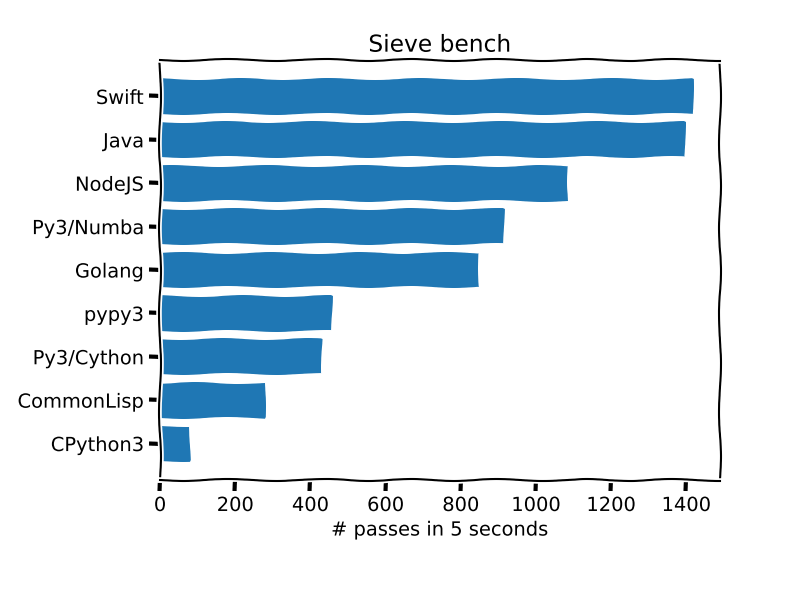
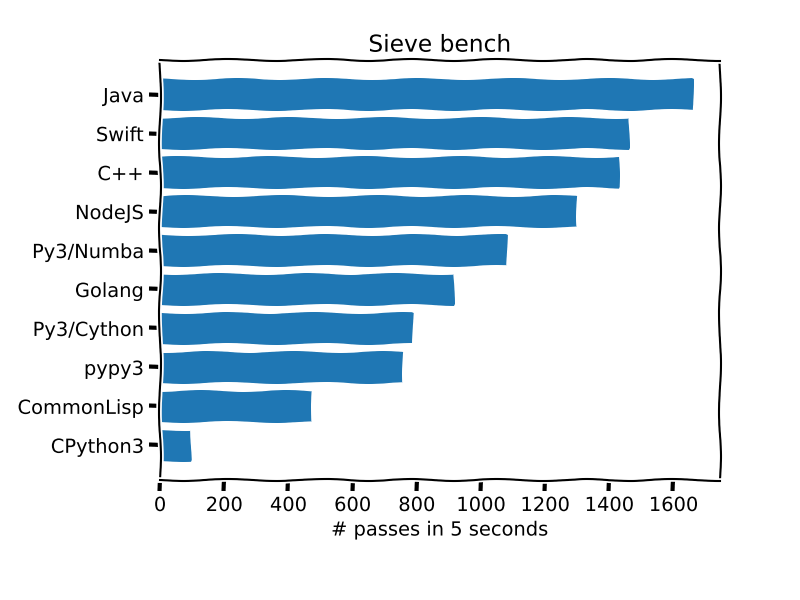
deploy: d520c39531809340ecaf57d8dfe63bc2e970efc0

diff --git a/results/index.html b/results/index.html
@@ -279,75 +279,90 @@ Description:    Ubuntu 20.04.3 LTS
 Release:    20.04
 Codename:   focal
 
-Linux fv-az269-986 5.11.0-1028-azure #31~20.04.2-Ubuntu SMP Tue Jan 18 08:46:15 UTC 2022 x86_64 x86_64 x86_64 GNU/Linux
+Linux fv-az196-653 5.11.0-1028-azure #31~20.04.2-Ubuntu SMP Tue Jan 18 08:46:15 UTC 2022 x86_64 x86_64 x86_64 GNU/Linux
 
 
-1419
-Swift
-Swift version 5.5.3 (swift-5.5.3-RELEASE)
-Target: x86_64-unknown-linux-gnu
-
-1398
+1662
 Java
 openjdk 11.0.14.1 2022-02-08
 OpenJDK Runtime Environment Temurin-11.0.14.1+1 (build 11.0.14.1+1)
 OpenJDK 64-Bit Server VM Temurin-11.0.14.1+1 (build 11.0.14.1+1, mixed mode)
 
-1085
+1462
+Swift
+Swift version 5.5.3 (swift-5.5.3-RELEASE)
+Target: x86_64-unknown-linux-gnu
+
+1431
+C++
+g++ (Ubuntu 9.3.0-17ubuntu1~20.04) 9.3.0
+Copyright (C) 2019 Free Software Foundation, Inc.
+This is free software; see the source for copying conditions.  There is NO
+warranty; not even for MERCHANTABILITY or FITNESS FOR A PARTICULAR PURPOSE.
+
+
+1263
+C++ wasm
+emcc (Emscripten gcc/clang-like replacement + linker emulating GNU ld) 3.1.6 (c102a423a06d9833a8481d6859888bebf22842b0)
+Copyright (C) 2014 the Emscripten authors (see AUTHORS.txt)
+This is free and open source software under the MIT license.
+There is NO warranty; not even for MERCHANTABILITY or FITNESS FOR A PARTICULAR PURPOSE.
+
+1298
 NodeJS
 v16.14.0
 
-81
+96
 CPython3
 Python 3.8.10
 
-914
+1080
 Py3/Numba
 Python 3.8.10
 Numba 0.55.1
 
-457
+758
 pypy3
 Python 3.6.9 (7.3.1+dfsg-4, Apr 22 2020, 05:15:29)
 [PyPy 7.3.1 with GCC 9.3.0]
 
-848
+917
 Golang
 go version go1.13.8 linux/amd64
 
-81
-CPython3
-Python 3.8.10
-
-914
-Py3/Numba
-Python 3.8.10
-Numba 0.55.1
-
-457
-pypy3
-Python 3.6.9 (7.3.1+dfsg-4, Apr 22 2020, 05:15:29)
-[PyPy 7.3.1 with GCC 9.3.0]
-
-431
+788
 Py3/Cython
 Cython 0.29.28
 Python 3.8.10
 
-279
-CommonLisp
-SBCL 2.0.1.debian
-
-81
+96
 CPython3
 Python 3.8.10
 
-914
+1080
 Py3/Numba
 Python 3.8.10
 Numba 0.55.1
 
-457
+758
+pypy3
+Python 3.6.9 (7.3.1+dfsg-4, Apr 22 2020, 05:15:29)
+[PyPy 7.3.1 with GCC 9.3.0]
+
+474
+CommonLisp
+SBCL 2.0.1.debian
+
+96
+CPython3
+Python 3.8.10
+
+1080
+Py3/Numba
+Python 3.8.10
+Numba 0.55.1
+
+758
 pypy3
 Python 3.6.9 (7.3.1+dfsg-4, Apr 22 2020, 05:15:29)
 [PyPy 7.3.1 with GCC 9.3.0]
